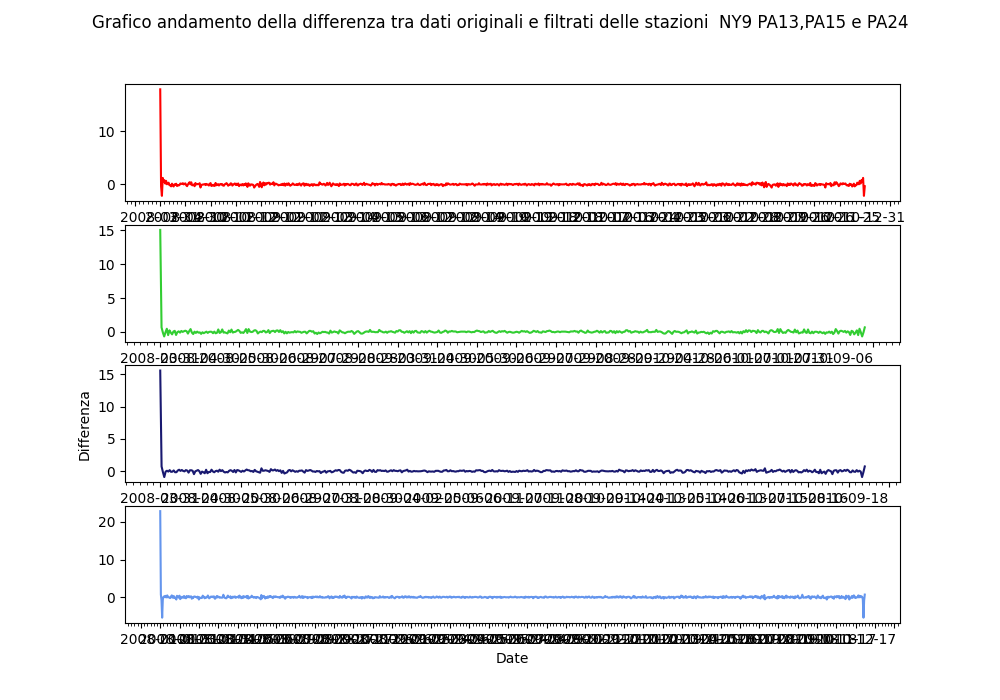
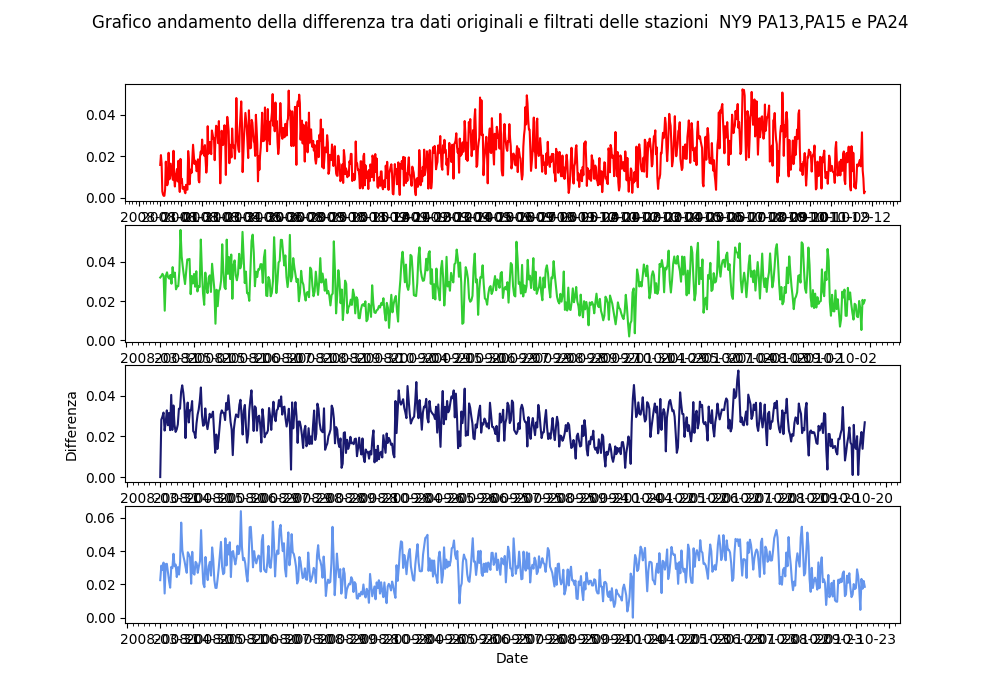
...

diff --git a/Scriptpython/studio5Stati.py b/Scriptpython/studio5Stati.py
@@ -13,9 +13,10 @@ ril5Stati=f.getRilevaz5(p5stati)
 
 ril5Stati.sort(kind='mergesort')
 #print(ril5Stati)
-
+'''
 for h in ril5Stati:
     print(h.cStato, h.cContea, h.cStaz, h.data, h.mean)
+'''
 print('Numero totale di rilevazioni:', ril5Stati.size)
 
 staz5Stati=f.getStazioni(ril5Stati)
@@ -35,61 +36,58 @@ print('Numero totale di stazioni: ', staz5Stati.size)
 
 #estraggo array stazioni con funzione e andamenti temporali
 
-stazCT2Date ,stazCT2Mean  = f.takeArr(staz5Stati[2])
-stazCT3Date ,stazCT3Mean = f.takeArr(staz5Stati[3])
-stazCT1Date ,stazCT1Mean = f.takeArr(staz5Stati[1])
-title1='Confronto 2 stazioni Connecticut'
+CT2Date ,CT2Mean  = f.takeArr(staz5Stati[2])
+CT3Date ,CT3Mean = f.takeArr(staz5Stati[3])
+CT1Date ,CT1Mean = f.takeArr(staz5Stati[1])
+NY8Date , NY8Mean =f.takeArr(staz5Stati[8])
+NY9Date , NY9Mean =f.takeArr(staz5Stati[9])
+VA29Date , VA29Mean =f.takeArr(staz5Stati[29])
+VA31Date , VA31Mean =f.takeArr(staz5Stati[31])
+VA33Date , VA33Mean =f.takeArr(staz5Stati[33])
+VA34Date , VA34Mean =f.takeArr(staz5Stati[34])
+PA13Date , PA13Mean =f.takeArr(staz5Stati[13])
+PA15Date , PA15Mean =f.takeArr(staz5Stati[15])
+PA20Date , PA20Mean =f.takeArr(staz5Stati[20])
+PA24Date , PA24Mean =f.takeArr(staz5Stati[24])
+MD5Date , MD5Mean =f.takeArr(staz5Stati[5])
 
-stazNY8Date , stazNY8Mean =f.takeArr(staz5Stati[8])
-stazNY9Date , stazNY9Mean =f.takeArr(staz5Stati[9])
-title2='Confronto 2 stazioni New York'
-
-stazVA29Date , stazVA29Mean =f.takeArr(staz5Stati[29])
-stazVA33Date , stazVA33Mean =f.takeArr(staz5Stati[33])
-stazVA34Date , stazVA34Mean =f.takeArr(staz5Stati[34])
-title3='Confronto 2 stazioni della Virginia '
-
-stazPA13Date , stazPA13Mean =f.takeArr(staz5Stati[13])
-stazPA15Date , stazPA15Mean =f.takeArr(staz5Stati[15])
-title4='Confronto 2 stazioni Pennsylvania'
-
-stazPA20Date , stazPA20Mean =f.takeArr(staz5Stati[20])
-title5='Confronto stazione Pennsylvania con stazione New york'
-
-stazPA24Date , stazPA24Mean =f.takeArr(staz5Stati[24])
-stazVA31Date , stazVA31Mean =f.takeArr(staz5Stati[31])
-title6='Confronto stazione Pennsylvania con stazione Virginia'
-
-stazMD5Date , stazMD5Mean =f.takeArr(staz5Stati[5])
-title7='Confronto stazione Maryland con stazione New york'
-title8='Confronto 5 Stazioni degli stati contigui'
-if False: 
-    f.graphInTime2(stazCT2Date ,stazCT2Mean,stazCT3Date ,stazCT3Mean,title1,'red')
-    f.graphInTime2(stazNY8Date ,stazNY8Mean,stazNY9Date ,stazNY9Mean ,title2,'cyan')
-    f.graphInTime2(stazVA29Date ,stazVA29Mean, stazVA33Date ,stazVA33Mean,title3,'orchid')
-    f.graphInTime2(stazVA29Date ,stazVA29Mean, stazVA34Date ,stazVA34Mean,title3,'orchid')
-    f.graphInTime2(stazPA13Date ,stazPA13Mean,stazPA15Date ,stazPA15Mean ,title4,'green')
-    f.graphInTime2(stazPA20Date ,stazPA20Mean ,stazNY8Date ,stazNY8Mean ,title5,'darkviolet')
-    f.graphInTime2(stazPA24Date ,stazPA24Mean ,stazVA31Date ,stazVA31Mean ,title6,'midnightblue')
-    f.graphInTime2(stazMD5Date ,stazMD5Mean ,stazNY9Date ,stazNY9Mean ,title7,'limegreen')
-    f.graphInTime5(stazCT1Date ,stazCT1Mean,stazMD5Date ,stazMD5Mean,stazNY9Date ,stazNY9Mean,stazPA20Date ,stazPA20Mean,stazVA31Date ,stazVA31Mean,title8)
+#Decidi se mettere CT1,CT2 ecc.. o lasciare così
+if False:
+    title='Confronto 2 stazioni Connecticut'
+    f.graphInTime2(CT2Date,CT2Mean,CT3Date,CT3Mean,title,'red')
+    title='Confronto 2 stazioni New York'
+    f.graphInTime2(NY8Date,NY8Mean,NY9Date,NY9Mean,title,'cyan')
+    title='Confronto 2 stazioni della Virginia '
+    f.graphInTime2(VA29Date,VA29Mean,VA33Date,VA33Mean,title,'orchid')
+    title='Confronto altre 2 stazioni della Virginia '
+    f.graphInTime2(VA29Date,VA29Mean,VA34Date,VA34Mean,title,'orchid')
+    title='Confronto 2 stazioni Pennsylvania'
+    f.graphInTime2(PA13Date,PA13Mean,PA15Date,PA15Mean ,title,'green')
+    title='Confronto stazione Pennsylvania con stazione New york'
+    f.graphInTime2(PA20Date,PA20Mean,NY8Date,NY8Mean,title,'darkviolet')
+    title='Confronto altre stazioni Pennsylvania con altre della Virginia'
+    f.graphInTime2(PA24Date,PA24Mean,VA31Date,VA31Mean,title,'midnightblue')
+    title='Confronto stazione Maryland con stazione New york'
+    f.graphInTime2(MD5Date,MD5Mean,NY9Date,NY9Mean,title,'limegreen')
+    title='Confronto 5 Stazioni degli stati contigui'
+    f.graphInTime5(CT1Date,CT1Mean,MD5Date,MD5Mean,NY9Date ,NY9Mean,PA20Date,PA20Mean,VA31Date,VA31Mean,title)
 
 
 #trasformata di fourier e freq 2 3 5 8 9 13 15 20 24 29 31 33 34
-coffCT1 , cofFreqCT1 , maxCT1 = f.trFour_freq(stazCT1Mean)
-coffCT2 , cofFreqCT2 , maxCT2 = f.trFour_freq(stazCT2Mean)
-coffCT3 , cofFreqCT3 , maxCT3 = f.trFour_freq(stazCT3Mean)
-coffMD5 , cofFreqMD5 , maxMD5 = f.trFour_freq(stazMD5Mean)
-coffNY8 , cofFreqNY8 , maxNY8 = f.trFour_freq(stazNY8Mean)
-coffNY9 , cofFreqNY9 , maxNY9 = f.trFour_freq(stazNY9Mean)
-coffPA13 , cofFreqPA13 , maxPA13 = f.trFour_freq(stazPA13Mean)
-coffPA15 , cofFreqPA15 , maxPA15 = f.trFour_freq(stazPA15Mean)
-coffPA20 , cofFreqPA20 , maxPA20 = f.trFour_freq(stazPA20Mean)
-coffPA24 , cofFreqPA24 , maxPA24 = f.trFour_freq(stazPA24Mean)
-coffVA29 , cofFreqVA29 , maxVA29 = f.trFour_freq(stazVA29Mean)
-coffVA31 , cofFreqVA31 , maxVA31 = f.trFour_freq(stazVA31Mean)
-coffVA33 , cofFreqVA33 , maxVA33 = f.trFour_freq(stazVA33Mean)
-coffVA34 , cofFreqVA34 , maxVA34 = f.trFour_freq(stazVA34Mean)
+coffCT1 , cofFreqCT1 , maxCT1 = f.trFour_freq(CT1Mean)
+coffCT2 , cofFreqCT2 , maxCT2 = f.trFour_freq(CT2Mean)
+coffCT3 , cofFreqCT3 , maxCT3 = f.trFour_freq(CT3Mean)
+coffMD5 , cofFreqMD5 , maxMD5 = f.trFour_freq(MD5Mean)
+coffNY8 , cofFreqNY8 , maxNY8 = f.trFour_freq(NY8Mean)
+coffNY9 , cofFreqNY9 , maxNY9 = f.trFour_freq(NY9Mean)
+coffPA13 , cofFreqPA13 , maxPA13 = f.trFour_freq(PA13Mean)
+coffPA15 , cofFreqPA15 , maxPA15 = f.trFour_freq(PA15Mean)
+coffPA20 , cofFreqPA20 , maxPA20 = f.trFour_freq(PA20Mean)
+coffPA24 , cofFreqPA24 , maxPA24 = f.trFour_freq(PA24Mean)
+coffVA29 , cofFreqVA29 , maxVA29 = f.trFour_freq(VA29Mean)
+coffVA31 , cofFreqVA31 , maxVA31 = f.trFour_freq(VA31Mean)
+coffVA33 , cofFreqVA33 , maxVA33 = f.trFour_freq(VA33Mean)
+coffVA34 , cofFreqVA34 , maxVA34 = f.trFour_freq(VA34Mean)
 
 modcofCT1 = np.absolute(coffCT1)**2
 modcofMD5 = np.absolute(coffMD5)**2
@@ -114,35 +112,34 @@ if False:
 
 
 '''Filtri'''
-cofFilCT1=f.trInv(coffCT1,1e5,stazCT1Mean)
-cofFilCT2=f.trInv(coffCT2,1e5,stazCT2Mean)
-cofFilCT3=f.trInv(coffCT3,1e5,stazCT3Mean)
-cofFilNY8=f.trInv(coffNY8,1e6,stazNY8Mean)
-cofFilNY9=f.trInv(coffNY9,1e6,stazNY9Mean)
-cofFilPA13=f.trInv(coffPA13,2e6,stazPA13Mean)
-cofFilPA15=f.trInv(coffPA15,2e6,stazPA15Mean)
-cofFilPA20=f.trInv(coffPA20,2e6,stazPA20Mean)
-cofFilPA24=f.trInv(coffPA24,2e6,stazPA24Mean)#togli una di PA
-cofFilVA29=f.trInv(coffVA29,5e7,stazVA29Mean)#togli una di VA
-cofFilVA31=f.trInv(coffVA31,5e7,stazVA31Mean)
-cofFilVA33=f.trInv(coffVA33,5e7,stazVA33Mean)
-cofFilVA34=f.trInv(coffVA34,5e7,stazVA34Mean)
-cofFilMD5=f.trInv(coffMD5,2e6,stazMD5Mean)
+#sistema valori di soglia
+FilCT1=f.trInv(coffCT1,1e5,CT1Mean)
+FilCT2=f.trInv(coffCT2,1e5,CT2Mean)
+FilCT3=f.trInv(coffCT3,1e5,CT3Mean)
+FilNY8=f.trInv(coffNY8,1e6,NY8Mean)
+FilNY9=f.trInv(coffNY9,1e6,NY9Mean)
+FilPA13=f.trInv(coffPA13,2e6,PA13Mean)
+FilPA15=f.trInv(coffPA15,2e6,PA15Mean)
+FilPA20=f.trInv(coffPA20,2e6,PA20Mean)
+FilPA24=f.trInv(coffPA24,2e6,PA24Mean)#togli una di PA
+FilVA29=f.trInv(coffVA29,5e7,VA29Mean)#togli una di VA
+FilVA31=f.trInv(coffVA31,5e7,VA31Mean)
+FilVA33=f.trInv(coffVA33,5e7,VA33Mean)
+FilVA34=f.trInv(coffVA34,5e7,VA34Mean)
+FilMD5=f.trInv(coffMD5,2e6,MD5Mean)
 
 '''Dati originali rispetto a filtrati'''
 
 
 
 '''Rumori'''
-if True:
+if False:
     title='Grafico andamento della differenza tra dati originali e filtrati delle stazioni CT1 CT2 CT3 e NY8'
-    f.graphRumori(stazCT1Date,coffCT1,cofFilCT1,stazCT2Date,coffCT2,cofFilCT2,stazCT3Date,coffCT3,cofFilCT3,stazNY8Date,coffNY8,cofFilNY8,title)
+    f.graphRumori(CT1Date,CT1Mean,FilCT1,CT2Date,CT2Mean,FilCT2,CT3Date,CT3Mean,FilCT3,NY8Date,NY8Mean,FilNY8,title)
     title='Grafico andamento della differenza tra dati originali e filtrati delle stazioni  NY9 PA13,PA15 e PA24'
-    f.graphRumori(stazCT1Date,coffCT1,cofFilCT1,stazCT2Date,coffCT2,cofFilCT2,stazCT3Date,coffCT3,cofFilCT3,stazNY8Date,coffNY8,cofFilNY8,title)
+    f.graphRumori(NY9Date,NY9Mean,FilNY9,PA13Date,PA13Mean,FilPA13,PA15Date,PA15Mean,FilPA15,PA24Date,PA24Mean,FilPA24,title)
     title='Grafico andamento della differenza tra dati originali e filtrati delle stazioni VA29,VA31,VA34 e MD5'
-    f.graphRumori(stazCT1Date,coffCT1,cofFilCT1,stazCT2Date,coffCT2,cofFilCT2,stazCT3Date,coffCT3,cofFilCT3,stazNY8Date,coffNY8,cofFilNY8,title)
+    f.graphRumori(VA29Date,VA29Mean,FilVA29,VA31Date,VA31Mean,FilVA31,VA34Date,VA34Mean,FilVA34,MD5Date,MD5Mean,FilMD5,title)
     
-    '''
-    print(len(stazCT1Date),len(coffCT1),len(cofFilCT1))
-    '''
+    '''Individua tipo di rumore con funzione'''
 

diff --git a/Scriptpython/Funzioni.py b/Scriptpython/Funzioni.py
@@ -119,14 +119,17 @@ def meanDay(stato):
         aMeanday = np.append(aMeanday ,h.mean)
         aDate = np.append(aDate ,h.data)
         
-    for i in range(len(aDate)-1):
+    for i in range(len(aDate)):
+        if (i==(len(aDate)-1)):
+            date=np.append(date,aDate[i])
+            rip=np.append(rip,(i+1)-j)
+            break
+            '''metti il break'''
         if(aDate[i]!=aDate[i+1]):
             date=np.append(date,aDate[i])
             rip=np.append(rip,i-j)
             j=i
-        if (i==(len(aDate)-2)):
-            date=np.append(date,aDate[i+1])
-            rip=np.append(rip,(i+1)-j)
+
           
     for i in range(len(rip)-1):
         if(i>0):
@@ -277,18 +280,18 @@ def trInv(coff, fil, mean):
     arrFil = fft.ifft(cofFil, n=len(mean))
     return arrFil
 
-'''
-def graphFil(data1,acof1,afil1,data2,acof2,afil2,data3,acof3,afil3,data4,acof4,afil4,title):
+
+def graphFil(data1,amean1,afil1,data2,amean2,afil2,data3,amean3,afil3,data4,amean4,afil4,title):
     #Crea grafici dei dati filtrati rispetto agli originali
     fig, (ax1,ax2,ax3,ax4) = plt.subplots(4)
-    fig.suptitle(title)'limegreen''cyan''midnightblue''orchid'
-    ax1.plot(data1,acof1 , color='red')
-    ax1.plot(data1,afil1 ,color='darkpink')
-    ax2.plot(data2,acof2 , color='limegreen')
+    fig.suptitle(title)
+    ax1.plot(data1,amean1 , color='red')
+    ax1.plot(data1,afil1 ,color='chocolate')
+    ax2.plot(data2,amean2 , color='limegreen')
     ax2.plot(data2,afil2 ,color='cyan')
-    ax3.plot(data3,acof3 , color='midnightblue')
+    ax3.plot(data3,amean3 , color='midnightblue')
     ax3.plot(data3,afil3 ,color='black')
-    ax4.plot(data4,acof4 , color='orchid')
+    ax4.plot(data4,amean4 , color='orchid')
     ax4.plot(data4,afil4 ,color='cornflowerblue')
     ax1.xaxis.set_major_locator(MultipleLocator(30))
     ax1.xaxis.set_minor_locator(MultipleLocator(5))
@@ -306,15 +309,15 @@ def graphFil(data1,acof1,afil1,data2,acof2,afil2,data3,acof3,afil3,data4,acof4,a
     plt.show()
     
     return
-'''
 
-def graphRumori(data1,acof1,afil1,data2,acof2,afil2,data3,acof3,afil3,data4,acof4,afil4,title):
+
+def graphRumori(data1,amean1,afil1,data2,amean2,afil2,data3,amean3,afil3,data4,amean4,afil4,title):
     fig, (ax1,ax2,ax3,ax4) = plt.subplots(4)
     fig.suptitle(title)
-    ax1.plot(data1,acof1-afil1 , color='red')
-    ax2.plot(data2,acof2-afil2 , color='limegreen')
-    ax3.plot(data3,acof3-afil3 , color='midnightblue')
-    ax4.plot(data4,acof4-afil4 ,color='cornflowerblue')
+    ax1.plot(data1,amean1-afil1 , color='red')
+    ax2.plot(data2,amean2-afil2 , color='limegreen')
+    ax3.plot(data3,amean3-afil3 , color='midnightblue')
+    ax4.plot(data4,amean4-afil4 ,color='cornflowerblue')
     ax1.xaxis.set_major_locator(MultipleLocator(30))
     ax1.xaxis.set_minor_locator(MultipleLocator(5))
     ax2.xaxis.set_major_locator(MultipleLocator(30))

diff --git a/Scriptpython/studioStati.py b/Scriptpython/studioStati.py
@@ -72,11 +72,11 @@ meanO3SC , dateSC ,arr =f.meanDay(stati[28])#843
 meanO3TX , dateTX ,arr =f.meanDay(stati[30])
 #meanO3VA , dateVA ,arr =f.meanDay(stati[31])#795
 
-'''
-print('dateCA',' Lunghezza ',len(dateFL))
-print('meanO3MA' ,' Lunghezza ',len(meanO3FL))
+
+print('dateCA',' Lunghezza ',len(dateCA))
+print('meanO3CA' ,' Lunghezza ',len(meanO3CA))
 print('arr1' ,' Lunghezza ',len(arr))
-'''
+
 '''Andamento Temporale'''
 if False:
     #WEST COAST AND CENTER
@@ -175,6 +175,45 @@ if False:
 
 
 '''Filtri '''
+FilAZ=f.trInv(coffAZ,1e4,meanO3AZ)
+#FilCA=f.trInv(coffCA,1e4,meanO3CA)
+FilCT=f.trInv(coffCT,1e4,meanO3CT)
+FilDC=f.trInv(coffDC,1e4,meanO3DC)
+FilFL=f.trInv(coffFL,1e4,meanO3FL)
+FilIL=f.trInv(coffIL,1e4,meanO3IL)
+FilME=f.trInv(coffME,1e4,meanO3ME)
+FilMD=f.trInv(coffMD,1e4,meanO3MD)
+FilMA=f.trInv(coffMA,1e4,meanO3MA)
+FilNY=f.trInv(coffNY,1e4,meanO3NY)
+FilNC=f.trInv(coffNC,1e4,meanO3NC)
+FilND=f.trInv(coffND,1e4,meanO3ND)
+FilOK=f.trInv(coffOK,1e4,meanO3OK)
+FilOR=f.trInv(coffOR,1e4,meanO3OR)
+FilPA=f.trInv(coffPA,1e4,meanO3PA)
+FilTX=f.trInv(coffTX,1e4,meanO3TX)
 
 
 '''Dati originali rispetto a filtrati'''
+if False:
+    title='Grafico dati e dati filtrati a confronto per AZ CA CT e DC'
+    #f.graphFil(dateAZ,meanO3AZ,FilAZ,dateCA,meanO3CA,FilCA,dateCT,meanO3CT,FilCT,dateDC,meanO3DC,FilDC,title)
+    title='Grafico dati e dati filtrati a confronto per FL IL ME e MD'
+    f.graphFil(dateFL,meanO3FL,FilFL,dateIL,meanO3IL,FilIL,dateME,meanO3ME,FilME,dateMD,meanO3MD,FilMD,title)
+    title='Grafico dati e dati filtrati a confronto per MA NY NC e ND'
+    f.graphFil(dateMA,meanO3MA,FilMA,dateNY,meanO3NY,FilNY,dateNC,meanO3NC,FilNC,dateND,meanO3ND,FilND,title)
+    title='Grafico dati e dati filtrati a confronto per OK OR PA e TX'
+    f.graphFil(dateOK,meanO3OK,FilOK,dateOR,meanO3OR,FilOR,datePA,meanO3PA,FilPA,dateTX,meanO3TX,FilTX,title)
+
+'''Rumori'''
+
+if False:
+    title='Grafico andamento della differenza tra dati originali e filtrati delle stazioni AZ CA CT e DC'
+    #f.graphRumori(dateAZ,meanO3AZ,FilAZ,dateCA,meanO3CA,FilCA,dateCT,meanO3CT,FilCT,dateDC,meanO3DC,FilDC,title)
+    title='Grafico andamento della differenza tra dati originali e filtrati delle stazioni FL IL ME e MD'
+    f.graphRumori(dateFL,meanO3FL,FilFL,dateIL,meanO3IL,FilIL,dateME,meanO3ME,FilME,dateMD,meanO3MD,FilMD,title)
+    title='Grafico andamento della differenza tra dati originali e filtrati delle stazioni MA NY NC e ND'
+    f.graphRumori(dateMA,meanO3MA,FilMA,dateNY,meanO3NY,FilNY,dateNC,meanO3NC,FilNC,dateND,meanO3ND,FilND,title)
+    title='Grafico andamento della differenza tra dati originali e filtrati delle stazioni OK OR PA e TX'
+    f.graphRumori(dateOK,meanO3OK,FilOK,dateOR,meanO3OR,FilOR,datePA,meanO3PA,FilPA,dateTX,meanO3TX,FilTX,title)
+
+    '''Cerca che tipo di rumore è'''
